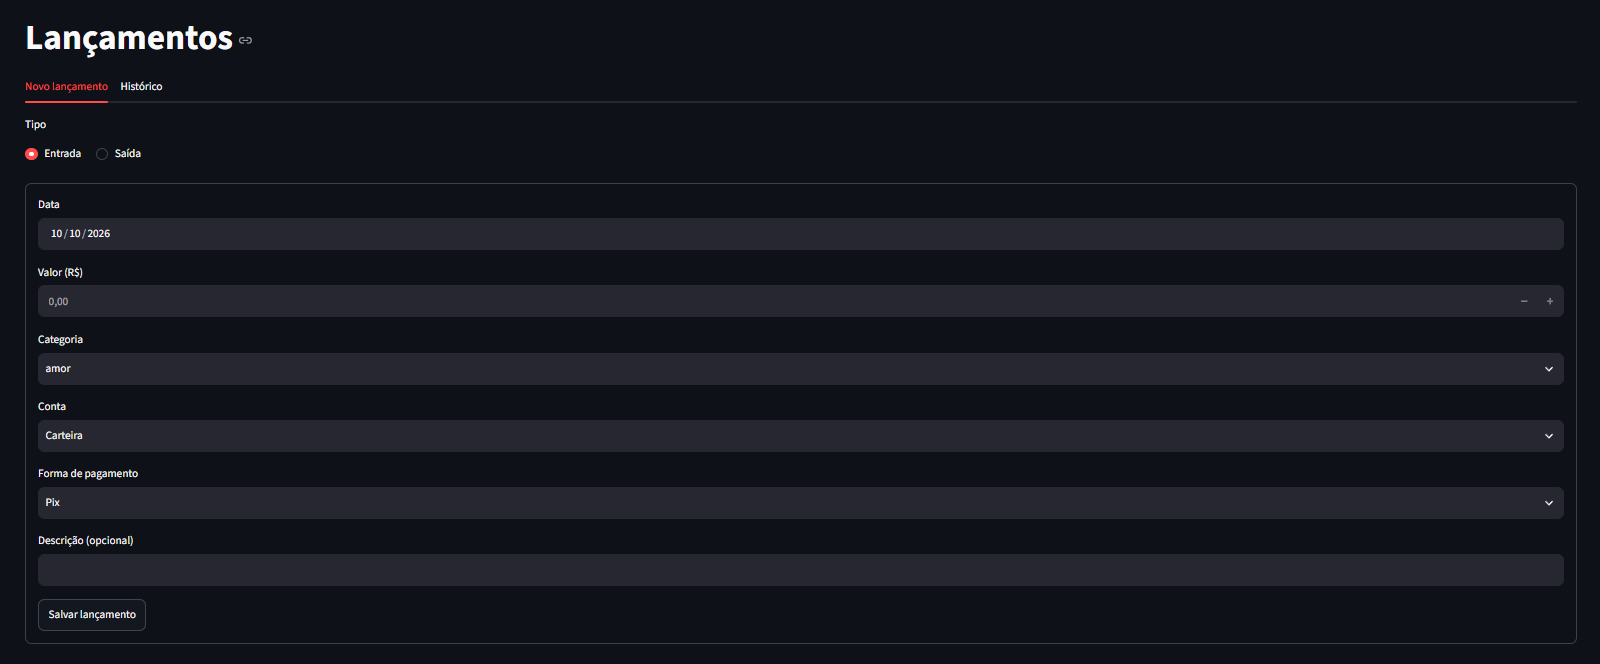
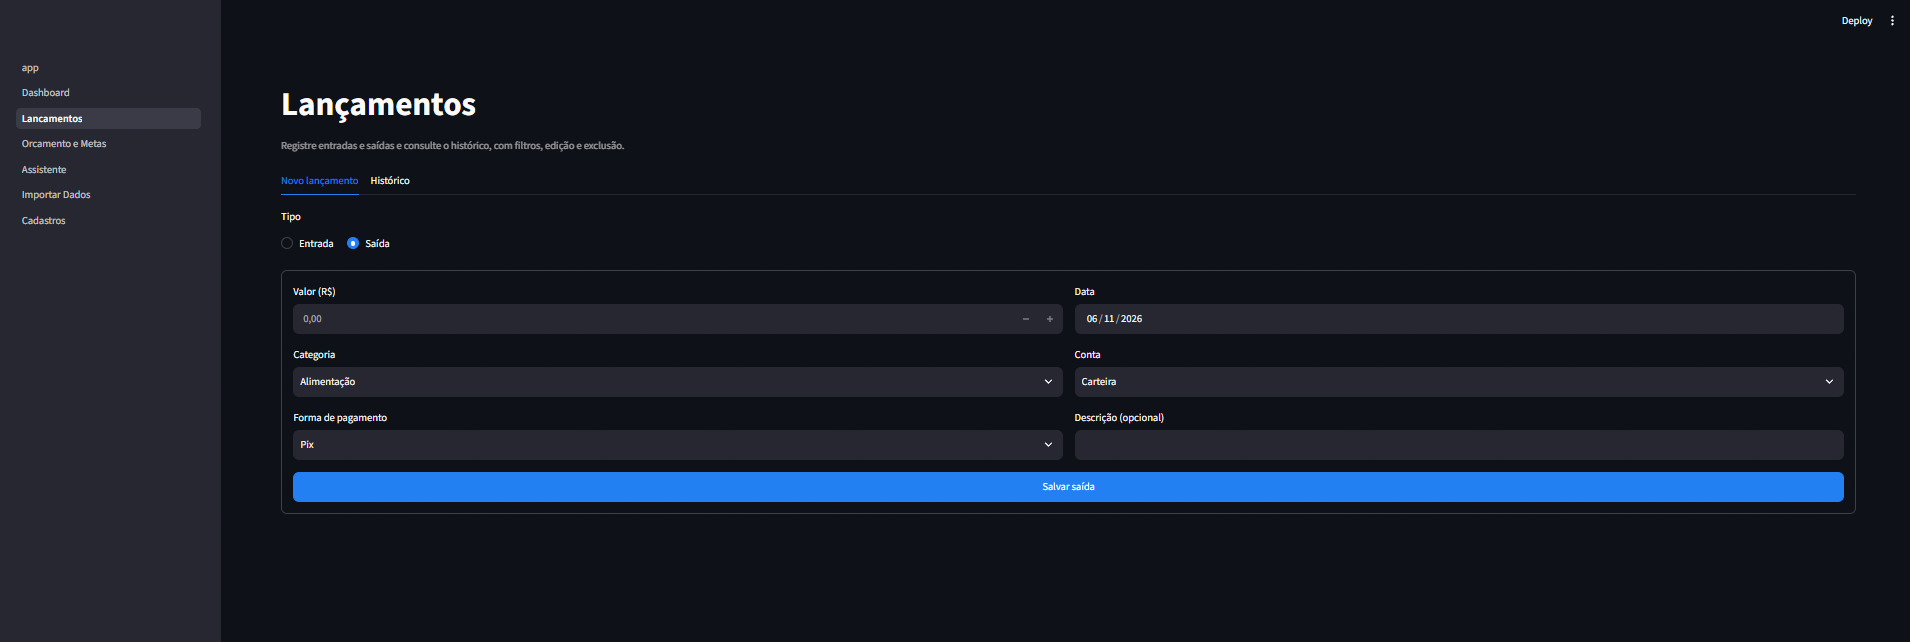
docs: novos prints, seção de telas e evoluções da IA no README

diff --git a/README.md b/README.md
@@ -4,7 +4,7 @@ Aplicativo web pessoal para acompanhar o fluxo de caixa, definir orçamentos e m
 
 > Os prints abaixo usam apenas **dados fictícios** (banco `financeiro_demo`).
 
-![Dashboard](docs/img/dashboard.png)
+![Tela inicial](docs/img/home.png)
 
 ## Funcionalidades
 
@@ -18,9 +18,35 @@ Aplicativo web pessoal para acompanhar o fluxo de caixa, definir orçamentos e m
 - **Importação de CSV** com modelo para baixar, validação linha a linha, detecção de lançamentos duplicados e gravação "tudo ou nada".
 - **Tema claro e escuro**, com destaque em azul. Para trocar, abra o menu ⋮ (canto superior direito) e escolha *Light*, *Dark* ou *System* (segue o computador).
 
-| Orçamento e metas | Assistente |
-|---|---|
-| ![Orçamento e metas](docs/img/orcamento-metas.png) | ![Assistente](docs/img/assistente.png) |
+## Telas
+
+**Dashboard**: indicadores do período, com variação em relação ao período anterior.
+
+![Dashboard](docs/img/dashboard-info.png)
+
+**Gráficos**: gastos por categoria, entradas × saídas e evolução do saldo.
+
+![Gráficos do dashboard](docs/img/dashboard-graficos.png)
+
+**Orçamento e metas**: limites por categoria com semáforo, e metas de reserva com contribuições.
+
+![Orçamento e metas](docs/img/orcamento-metas.png)
+
+**Assistente**: alertas por regras, cada um com uma sugestão do que fazer.
+
+![Assistente](docs/img/assistente.png)
+
+**Chat com IA local**: o modelo roda no computador (Ollama) e recebe só um resumo agregado. Note o aviso quando a resposta cita um valor que não está nos dados.
+
+![Chat com IA local](docs/img/assistente-ia.png)
+
+**Lançamentos**, **importação de CSV** e **cadastros**:
+
+![Lançamentos](docs/img/lancamentos.png)
+
+![Importar dados](docs/img/importar-dados.png)
+
+![Cadastros](docs/img/cadastro.png)
 
 ## Decisões de projeto
 
@@ -108,6 +134,13 @@ O app usa o modelo definido em `OLLAMA_MODELO` (no `.env`); sem isso, usa o `qwe
 - **Conversa curta**: só as seis últimas mensagens acompanham cada pergunta, e cada conversa tem no máximo 20 perguntas.
 - **Uso de memória**: depois da última pergunta o modelo continua carregado por 10 minutos, ocupando RAM ou memória de vídeo. Para liberar na hora: `ollama stop qwen2.5:3b` (troque pelo nome do seu modelo).
 - **Não é consultoria financeira**: as respostas são sugestões para gastar com mais consciência, não recomendações de investimento.
+
+### Possíveis evoluções
+
+- **Prompt e resumo**: mais exemplos de boas respostas no prompt e mais cálculos já prontos no resumo (por exemplo, o gasto diário por categoria) reduzem os erros sem custo.
+- **Modelo maior**: com mais memória de vídeo, modelos de 14B ou mais respondem melhor. Basta baixá-los com `ollama pull` e escolher na tela.
+- **Modelo na nuvem (opcional)**: uma API paga daria respostas mais precisas e rápidas, ao custo de enviar o resumo agregado para fora do computador. A conversa com o modelo fica concentrada em `src/assistant/`, então trocar ou somar um provedor é uma mudança localizada.
+- **Ajuste fino (treinamento)**: foi descartado. Ele ensina estilo, não fatos, e os números mudam todo mês e já chegam pelo resumo.
 
 ## Testes
 
